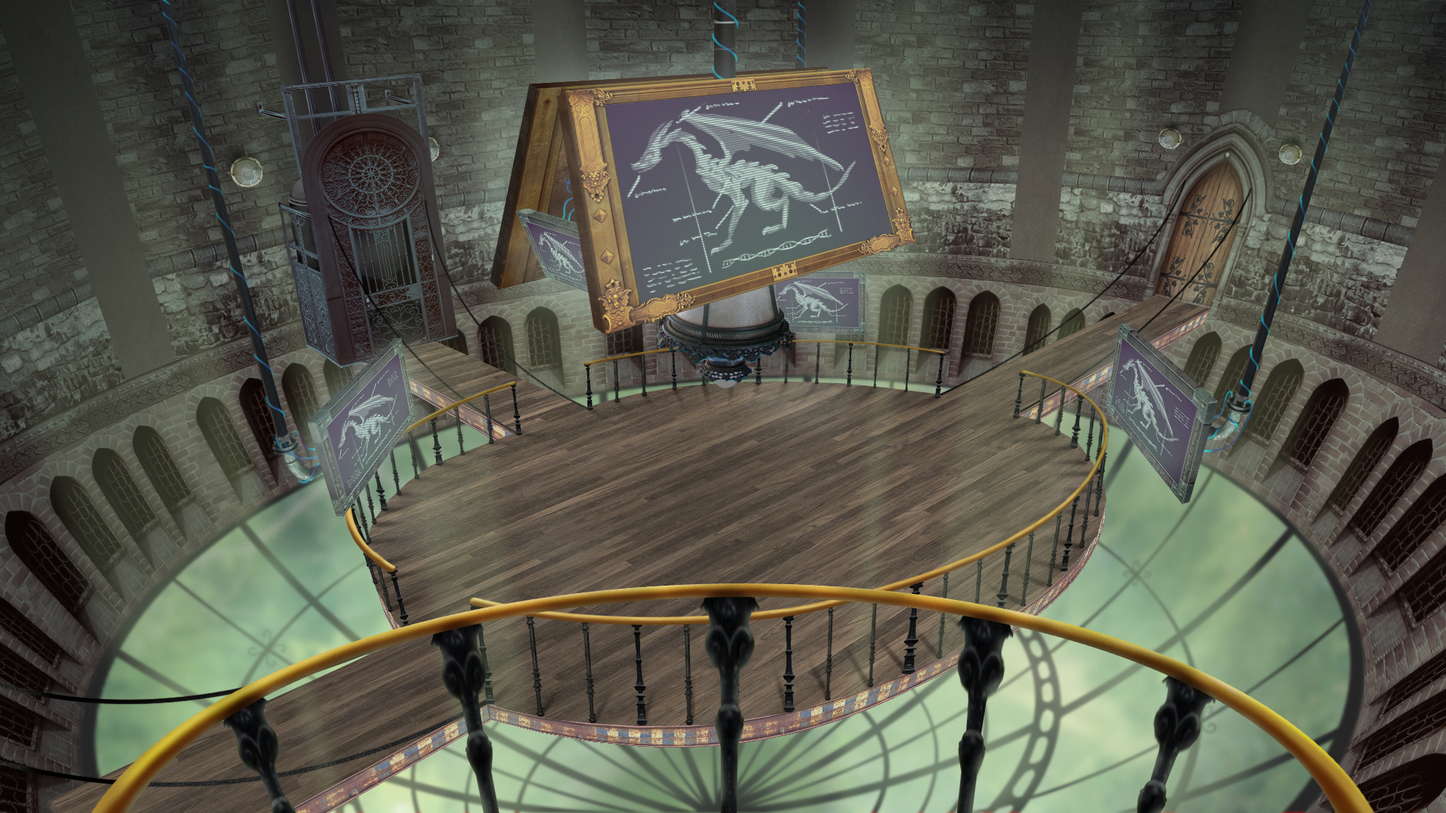
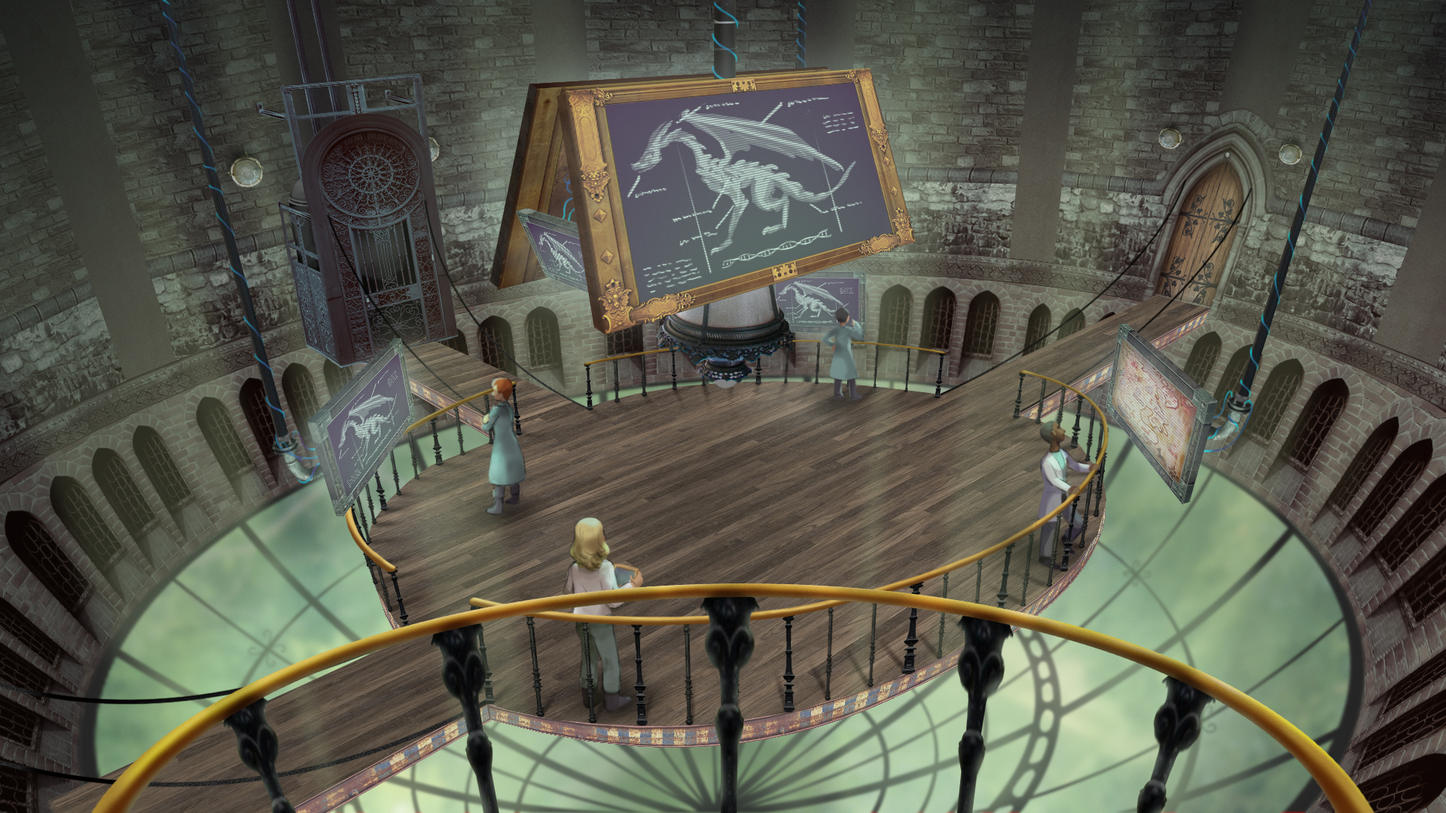
Add room animations with CSS
This simply adds a few divs to the room home screens, and then uses
CSS to populate those divs with the correct background sprites and
animation timings per room.

diff --git a/src/code/containers/fv-challenge-container.js b/src/code/containers/fv-challenge-container.js
@@ -31,7 +31,13 @@ class FVChallengeContainer extends Component {
       bgClasses = classNames('mission-backdrop', 'fv-layout', 'room', location.id),
 
       MainView = (
-        <div id="enter-challenge-hotspot" className="hotspot" onClick={ this.props.onEnterChallenge }/>
+        <div>
+          <div id="enter-challenge-hotspot" className="hotspot" onClick={ this.props.onEnterChallenge }/>
+          <div id="sprite-1" className="room-sprite" />
+          <div id="sprite-2" className="room-sprite" />
+          <div id="sprite-3" className="room-sprite" />
+          <div id="sprite-4" className="room-sprite" />
+        </div>
       );
     } else {
       const Template = templates[template];
